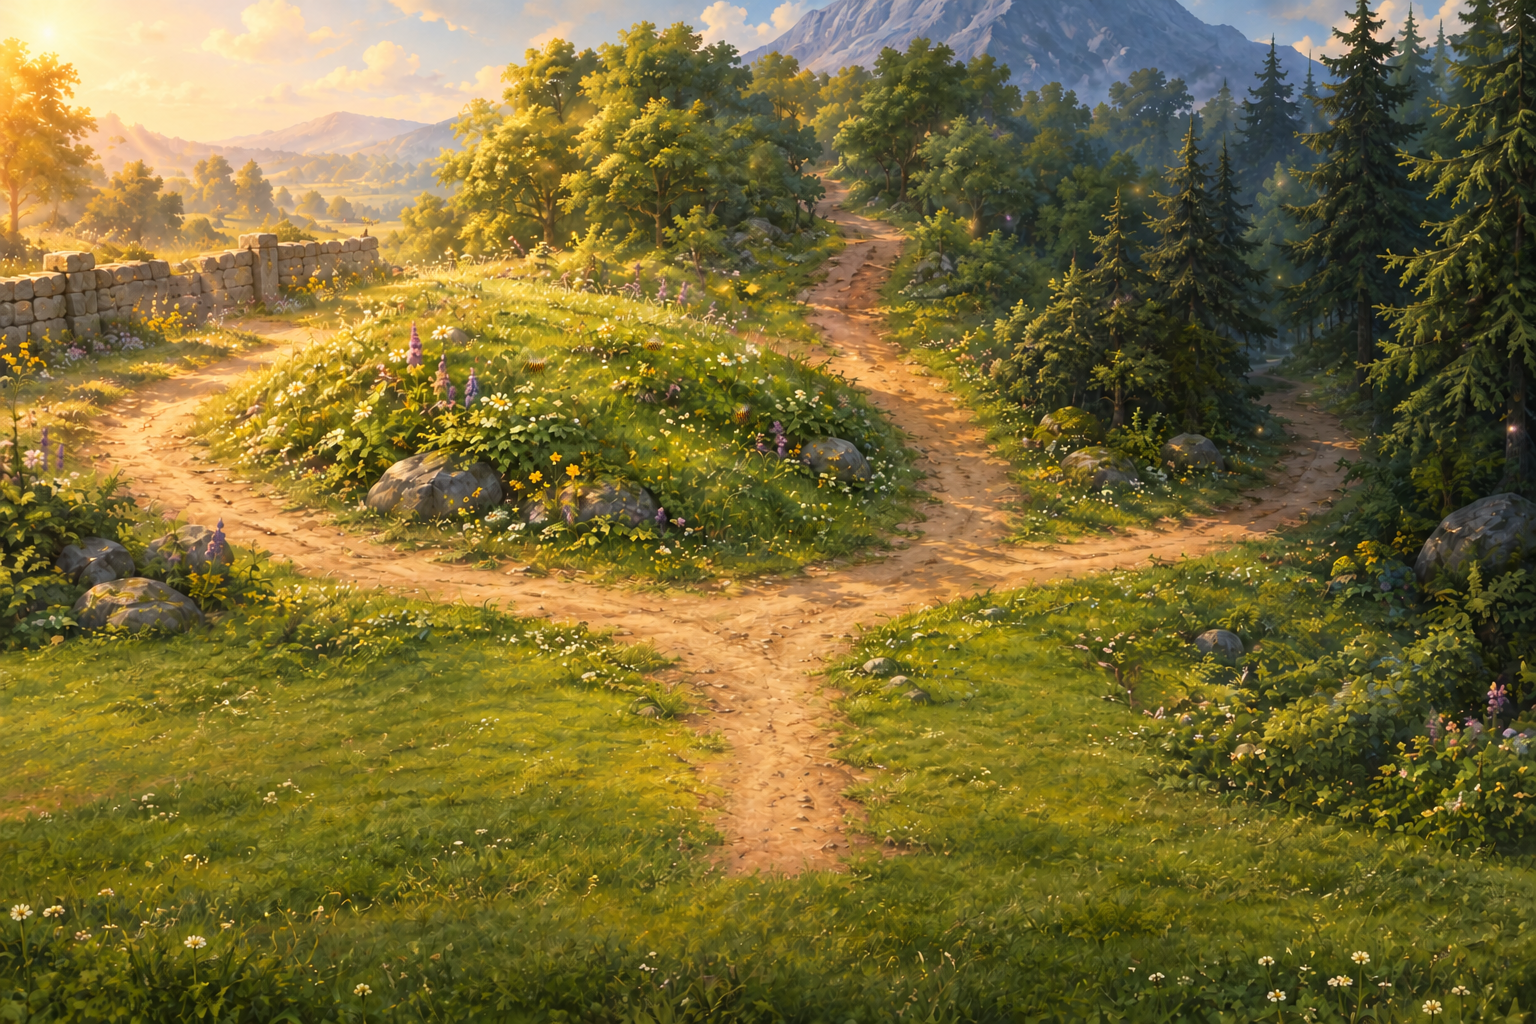
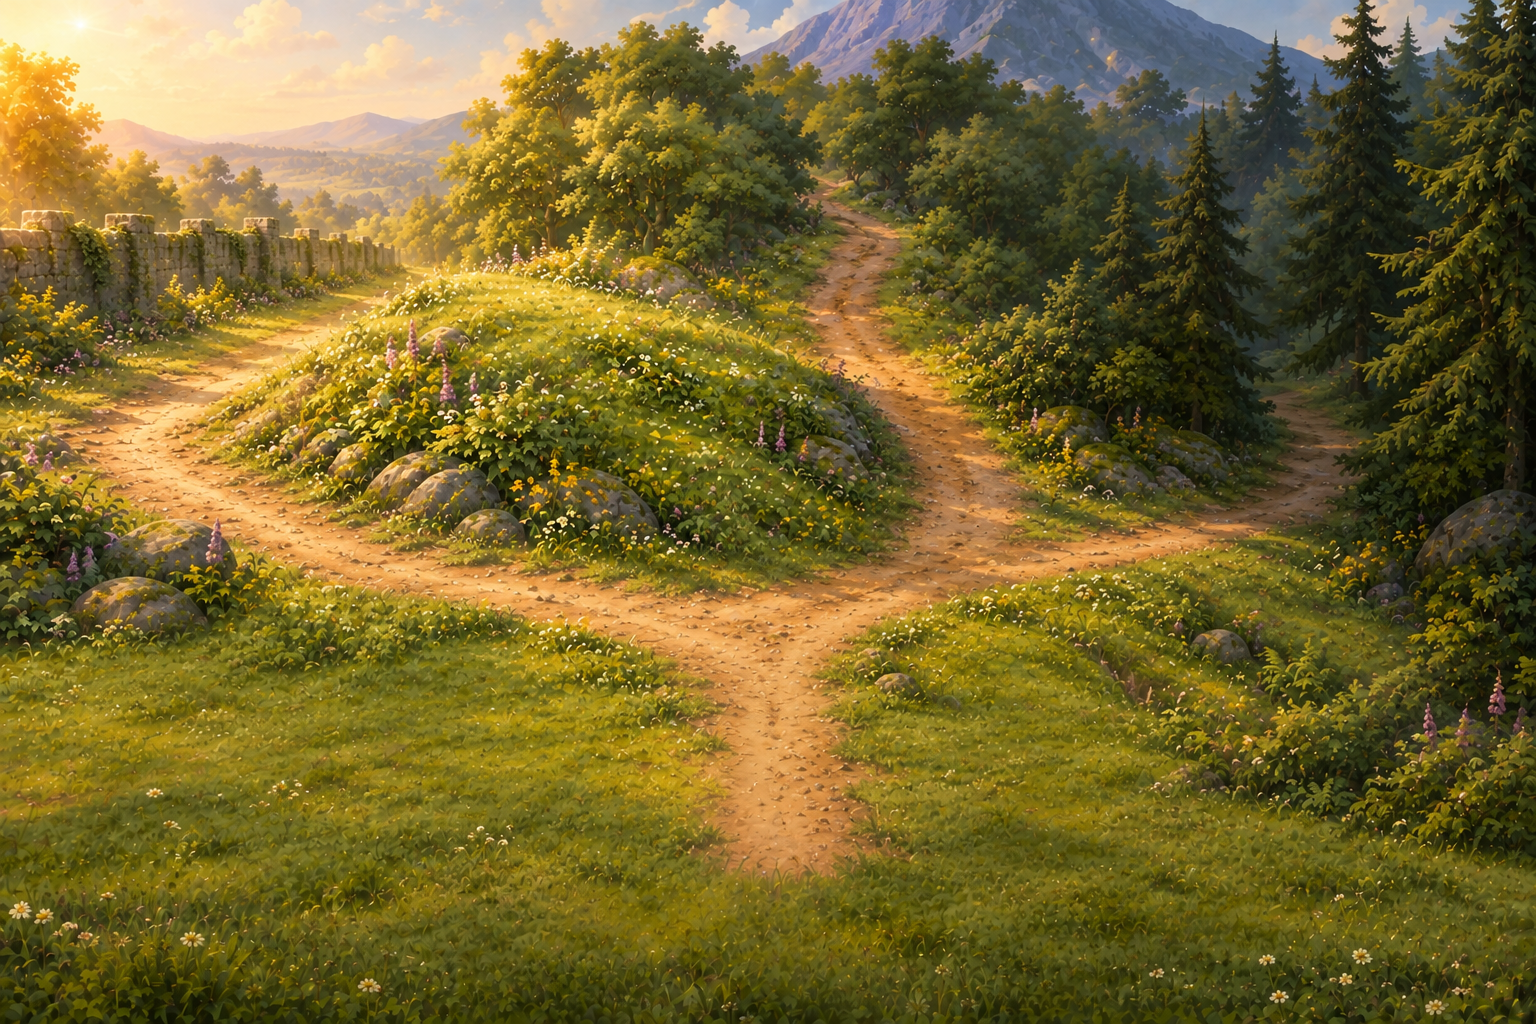
feat: Attach painted neighbouring rooms so shared scenery matches

diff --git a/scripts/art.js b/scripts/art.js
@@ -56,9 +56,9 @@ const ROOM_ORDER = [
 
 const REFERENCE = {
   style: (images) =>
-    `The attached ${images} a **style reference only**: match the painting style, brushwork, level of detail and camera angle, but create a completely new scene with the lighting described below. Don't copy the content, layout or colours.`,
+    `The ${images} a **style reference only**: match the painting style, brushwork, level of detail and camera angle, but create a completely new scene with the lighting described below. Don't copy the content, layout or colours.`,
   object: (images) =>
-    `The attached ${images} a **style reference only**: match the painting style, brushwork and level of detail, but create a single new object as described below. Don't copy the content.`,
+    `The ${images} a **style reference only**: match the painting style, brushwork and level of detail, but create a single new object as described below. Don't copy the content.`,
 };
 
 const world = JSON.parse(readFileSync("data/world.json", "utf8"));
@@ -146,13 +146,41 @@ function copy(text) {
   return spawnSync(command, args, { input: text }).status === 0;
 }
 
+// Up to two rooms next to this one that are already painted, so things seen
+// from both (the old stone wall from the grassy bank) match.
+function paintedNeighbours(id) {
+  const room = world.rooms[id];
+  if (!room) return [];
+  const ids = [...new Set(Object.values(room.exits).map((exit) => exit.to))].filter((to) => to && to !== id);
+  return ids
+    .map((to) => ({ id: to, file: `art/originals/rooms/${to}.png` }))
+    .filter((n) => existsSync(n.file) && !n.file.endsWith("/grassy-bank.png"))
+    .slice(0, 2);
+}
+
 function show(image, images) {
   const prompt = readPrompt(image.kind, image.id);
-  const attach = prompt.attach.filter((file) => existsSync(file));
+  const neighbours = image.kind === "rooms" && prompt.reference === "style" ? paintedNeighbours(image.id) : [];
+  // Neighbours are attached to be matched, not as style references.
+  const style = prompt.attach.filter((file) => existsSync(file) && !neighbours.some((n) => n.file === file));
   const skipped = prompt.attach.filter((file) => !existsSync(file));
+  const attach = [...style, ...neighbours.map((n) => n.file)];
   const parts = [];
-  if (REFERENCE[prompt.reference])
-    parts.push(REFERENCE[prompt.reference](attach.length > 1 ? "images are" : "image is"));
+  if (REFERENCE[prompt.reference]) {
+    const which = !neighbours.length
+      ? style.length > 1
+        ? "attached images are"
+        : "attached image is"
+      : style.length > 1
+        ? `first ${style.length} attached images are`
+        : "first attached image is";
+    parts.push(REFERENCE[prompt.reference](which));
+  }
+  if (neighbours.length) {
+    parts.push(
+      `The last ${neighbours.length > 1 ? `${neighbours.length} images show neighbouring places` : "image shows a neighbouring place"} in the same world (${neighbours.map((n) => n.id).join(", ")}). Anything that appears in both, such as a wall, a path, a river or a mountain, must look the same.`
+    );
+  }
   if (prompt.style !== "none") parts.push(styleBlock(prompt.style[0].toUpperCase() + prompt.style.slice(1)));
   parts.push(prompt.prompt);
   const text = parts.join("\n\n");

diff --git a/art/STYLE.md b/art/STYLE.md
@@ -128,6 +128,16 @@ The camera always faces north, so the south is behind the viewer:
   door) is suggested by light or sound coming from the bottom edge, not
   painted.
 
+## Continuity between neighbouring rooms
+
+Things seen from one room are often visited in another: the old stone wall
+from the grassy bank, the mountain from the mountain path. When painting a
+room, attach the neighbouring rooms that are already made, and say what must
+match (for example "the wall must match the one in the second image").
+
+- A path that leads to an exit leaves the picture at that side, and doesn't
+  also wind off into the distance in another direction.
+
 ## Things to keep consistent
 
 - Merlin: a tall old wizard, long silver beard, deep blue robe and hat with

diff --git a/art/prompts/rooms/old-stone-wall.md b/art/prompts/rooms/old-stone-wall.md
@@ -16,6 +16,6 @@ Exits:
 
 ## Prompt
 
-> On the left (west) side of the picture stands an **old grey stone wall, four metres tall**, mossy and ancient, too high to climb. A **winding track** runs away to the right (east) through meadow towards a distant crossroads.
+> On the left (west) side of the picture stands an **old grey stone wall, four metres tall**, mossy and ancient, too high to climb. A **winding track** runs from the middle of the picture off the right-hand edge (east), back towards the crossroads. It leaves the picture at the side and does not wind away into the distance.
 >
 > Warm summer light from the upper left. Keep the bottom quarter as plain grass.

diff --git a/art/prompts/rooms/grassy-bank.md b/art/prompts/rooms/grassy-bank.md
@@ -23,8 +23,9 @@ west → old stone wall.
 > - North (top): a path climbs towards a thick wood at the foot of a blue-grey
 >   mountain in the distance.
 > - East (right): a path leads into a darker evergreen glade of fir trees.
-> - West (left): a winding track leads towards an old grey stone wall in the
->   distance.
+> - West (left): a winding track leads towards an ancient, mossy grey stone
+>   wall in the distance, about four metres tall, with square buttresses and
+>   ivy.
 > - South (bottom): the fourth path runs straight out of the bottom edge of
 >   the picture, towards the viewer.
 >
